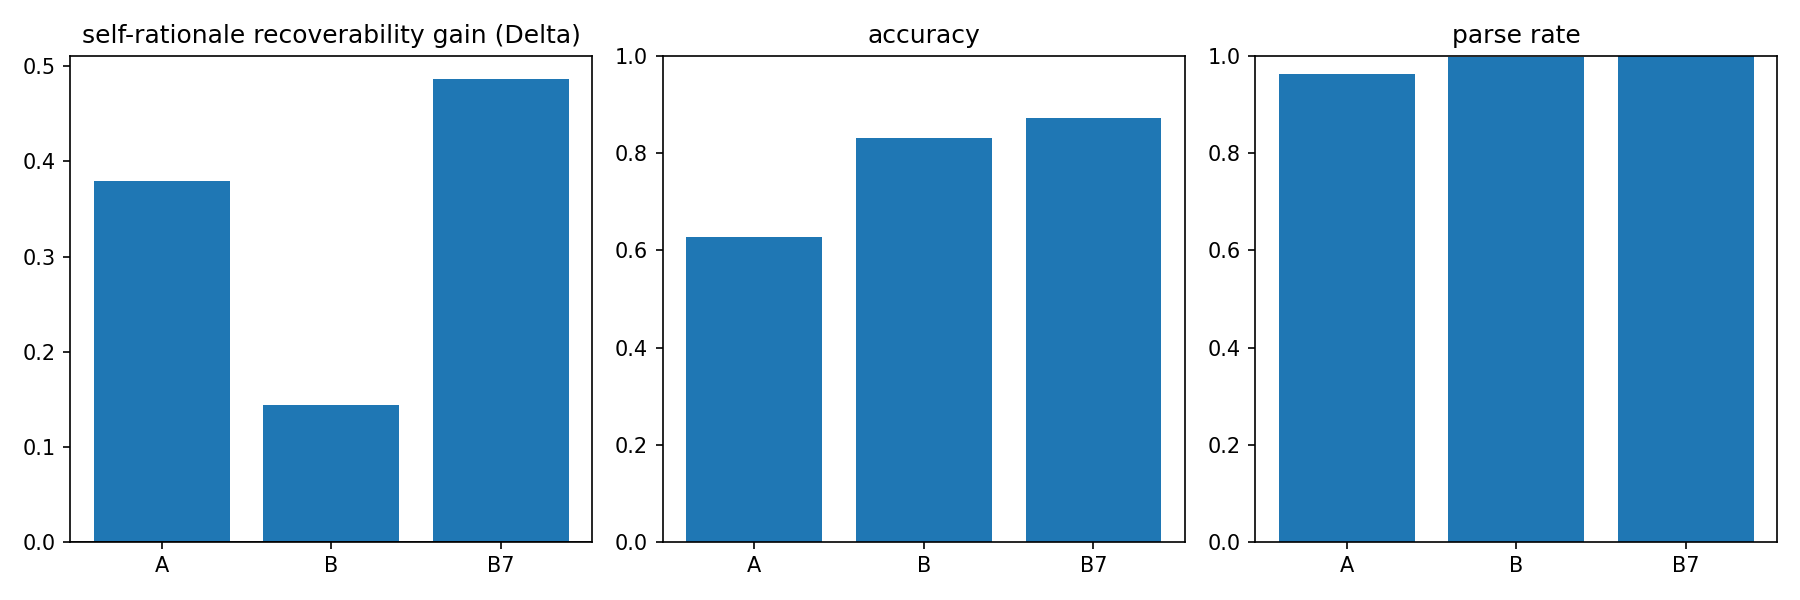
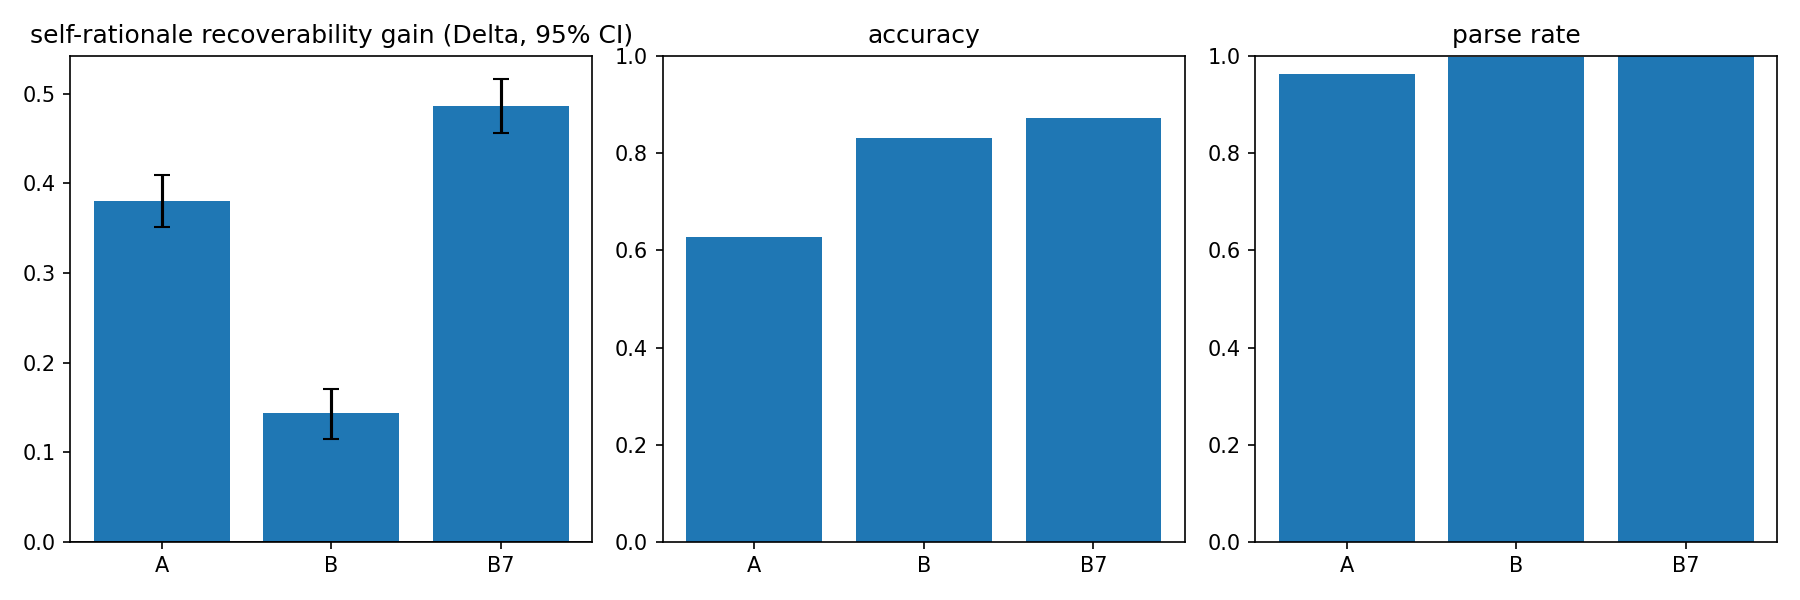
fix(p4): address final-review minors (figure CIs, paired_only, deps, notebook)
- M2: add 95% CI error bars to the Delta panel of the hero figure (spec section 6)
- M3: wire consistency.paired_only into metrics.json (the ADR-stated sensitivity);
  near-identical to primary (A .40, B .14, B7 .49) given ~1.0 parse rates
- M5: pin transformers>=5.9 in the vqa optional-dep group (Qwen2.5-VL floor)
- M1: remove stale 'populated once the real run completes (Task 18)' note from the
  notebook; re-executed .ipynb + regenerated .html with the updated figure
- REPORT: note the paired-only sensitivity confirms the headline policy

diff --git a/projects/04-vqa-aokvqa/scripts/30_eval.py b/projects/04-vqa-aokvqa/scripts/30_eval.py
@@ -53,6 +53,10 @@ def compute_subset_metrics(
         ans = gen[p]["answer_idx"]
         with_e = consistency_rate(ans, abl[p]["expl"])
         no_e = consistency_rate(ans, abl[p]["noexpl"])
+        # Paired-parsed-only sensitivity (drop pairs unparseable on either side); the
+        # primary (None=inconsistent) policy above remains the headline (see ADR-004).
+        with_e_po = consistency_rate(ans, abl[p]["expl"], paired_only=True)
+        no_e_po = consistency_rate(ans, abl[p]["noexpl"], paired_only=True)
         delta_test = paired_diff_test(
             _consistency_vector(ans, abl[p]["expl"]),
             _consistency_vector(ans, abl[p]["noexpl"]),
@@ -72,6 +76,11 @@ def compute_subset_metrics(
                 "no_expl": no_e,
                 "delta": with_e - no_e,
                 "delta_ci": [delta_test["ci_low"], delta_test["ci_high"]],
+                "paired_only": {
+                    "with_expl": with_e_po,
+                    "no_expl": no_e_po,
+                    "delta": with_e_po - no_e_po,
+                },
             },
         }
 
@@ -155,12 +164,17 @@ def main() -> None:  # pragma: no cover - slow/real-run path
     u = metrics["subsets"]["unfiltered"]["pipelines"]
     labels = list(PIPELINES)
     deltas = [u[p]["consistency"]["delta"] for p in labels]
+    # Asymmetric error bars from the paired-bootstrap CI [lo, hi] on each delta.
+    delta_err = [
+        [u[p]["consistency"]["delta"] - u[p]["consistency"]["delta_ci"][0] for p in labels],
+        [u[p]["consistency"]["delta_ci"][1] - u[p]["consistency"]["delta"] for p in labels],
+    ]
     accs = [u[p]["accuracy"] for p in labels]
     parses = [u[p]["parse_rate"]["answer"] for p in labels]
     fig, axes = plt.subplots(1, 3, figsize=(12, 4))
-    axes[0].bar(labels, deltas)
+    axes[0].bar(labels, deltas, yerr=delta_err, capsize=4)
     axes[0].axhline(0, color="k", lw=0.8)
-    axes[0].set_title("self-rationale recoverability gain (Delta)")
+    axes[0].set_title("self-rationale recoverability gain (Delta, 95% CI)")
     axes[1].bar(labels, accs)
     axes[1].set_title("accuracy")
     axes[1].set_ylim(0, 1)

diff --git a/projects/04-vqa-aokvqa/notebooks/01-vqa-consistency.py b/projects/04-vqa-aokvqa/notebooks/01-vqa-consistency.py
@@ -347,14 +347,14 @@ else:
 # %% [markdown]
 # ## 4. Discussion
 #
-# _Full discussion is in `REPORT.md section 6` and will be populated once the real run
-# completes (Task 18). The framing below describes what the results will show._
+# _The full written discussion is in `REPORT.md` section 6; this is a reading guide for the
+# tables and figure above._
 #
-# **Reading Delta:** a positive Delta for Pipeline A (caption-then-LLM) would indicate
-# that the LLM recovers its original answer primarily from its own explanation rather than
-# from any residual image information -- exactly the self-rationale recoverability red flag
-# the probe was designed to detect. A near-zero Delta for either pipeline suggests the
-# question alone drives the answer, regardless of visual or explanatory context.
+# **Reading Delta:** a positive Delta for Pipeline A (caption-then-LLM) indicates that the
+# LLM recovers its original answer primarily from its own explanation rather than from any
+# residual image information -- exactly the self-rationale recoverability red flag the probe
+# was designed to detect. A near-zero Delta for either pipeline suggests the question alone
+# drives the answer, regardless of visual or explanatory context.
 #
 # **Reading divergence:** high A-vs-B divergence with similar accuracy across the two
 # pipelines suggests the pipelines are failing on different items and succeeding on

diff --git a/projects/04-vqa-aokvqa/REPORT.md b/projects/04-vqa-aokvqa/REPORT.md
@@ -160,7 +160,10 @@ for the 3B VLM (B, Delta=0.144) -- i.e. the more capable model leans *more* on i
 self-rationale, the central faithfulness red flag this probe was built to detect. Note all
 three no-explanation baselines sit near 0.50, so a naive reading of the raw with-explanation
 rate (0.99 for B7) would badly overstate image-independence; the paired baseline is what
-makes that visible.
+makes that visible. The paired-parsed-only sensitivity (dropping items unparseable on either
+side; in `metrics.json` under `consistency.paired_only`) gives near-identical Deltas
+(A 0.397, B 0.144, B7 0.486), as expected given the high parse rates -- so the headline
+None-as-inconsistent policy is not an artifact of unparseable outputs.
 
 ### 5.3 Inter-pipeline divergence
 